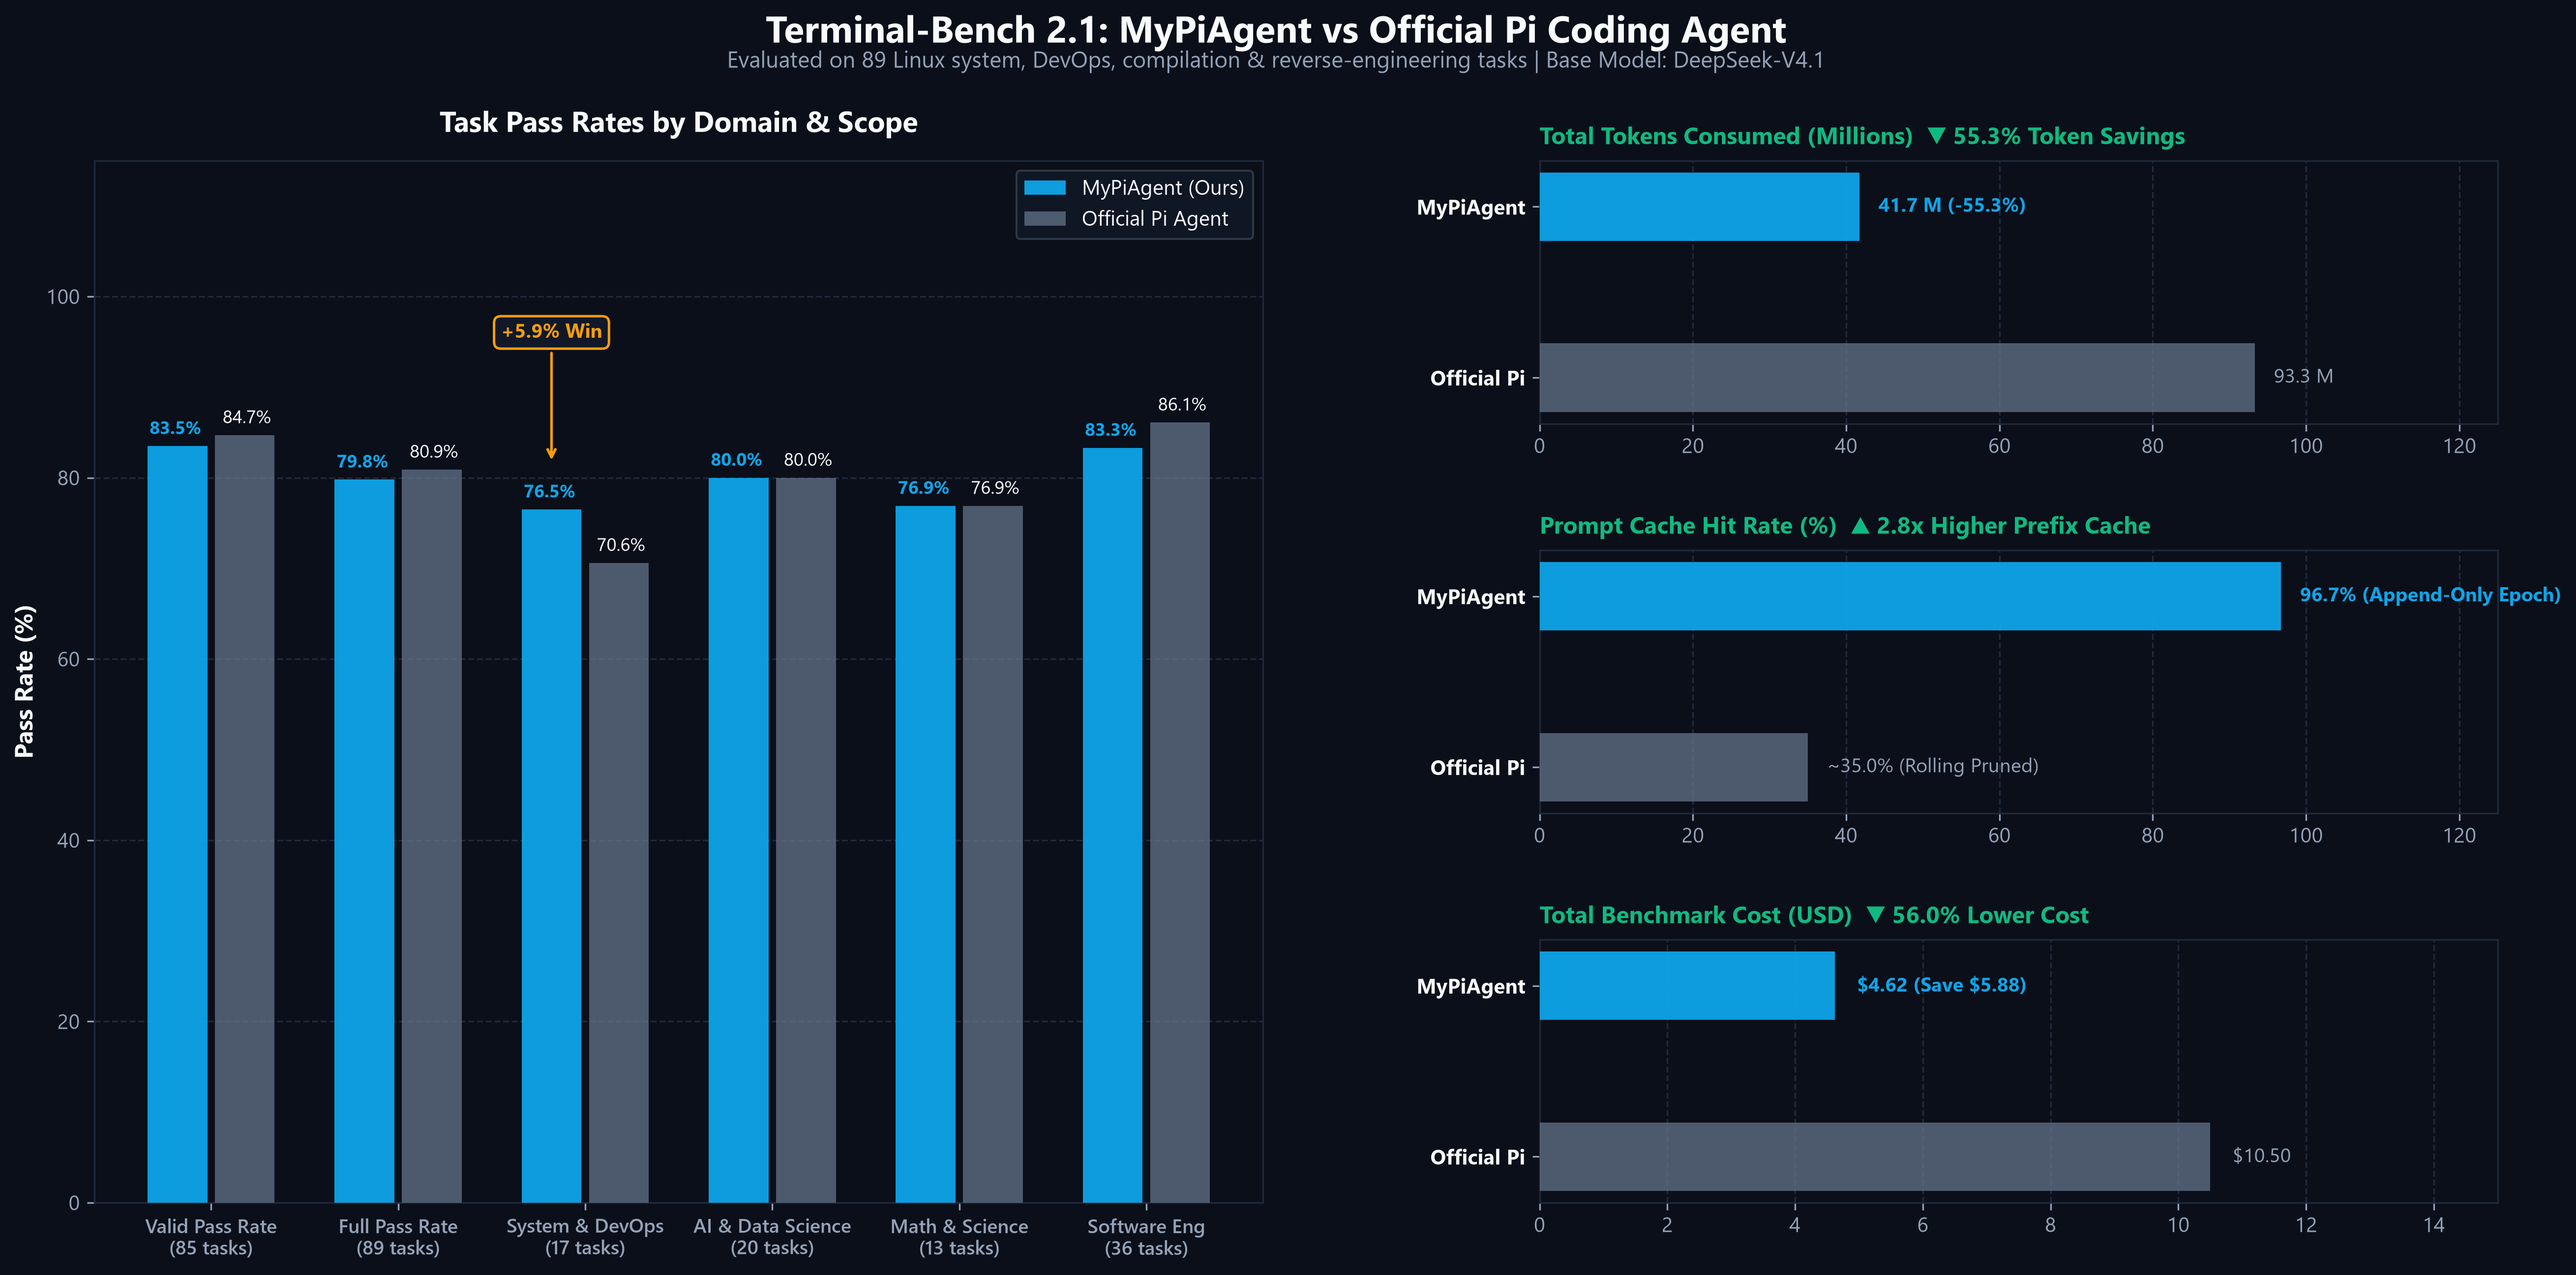
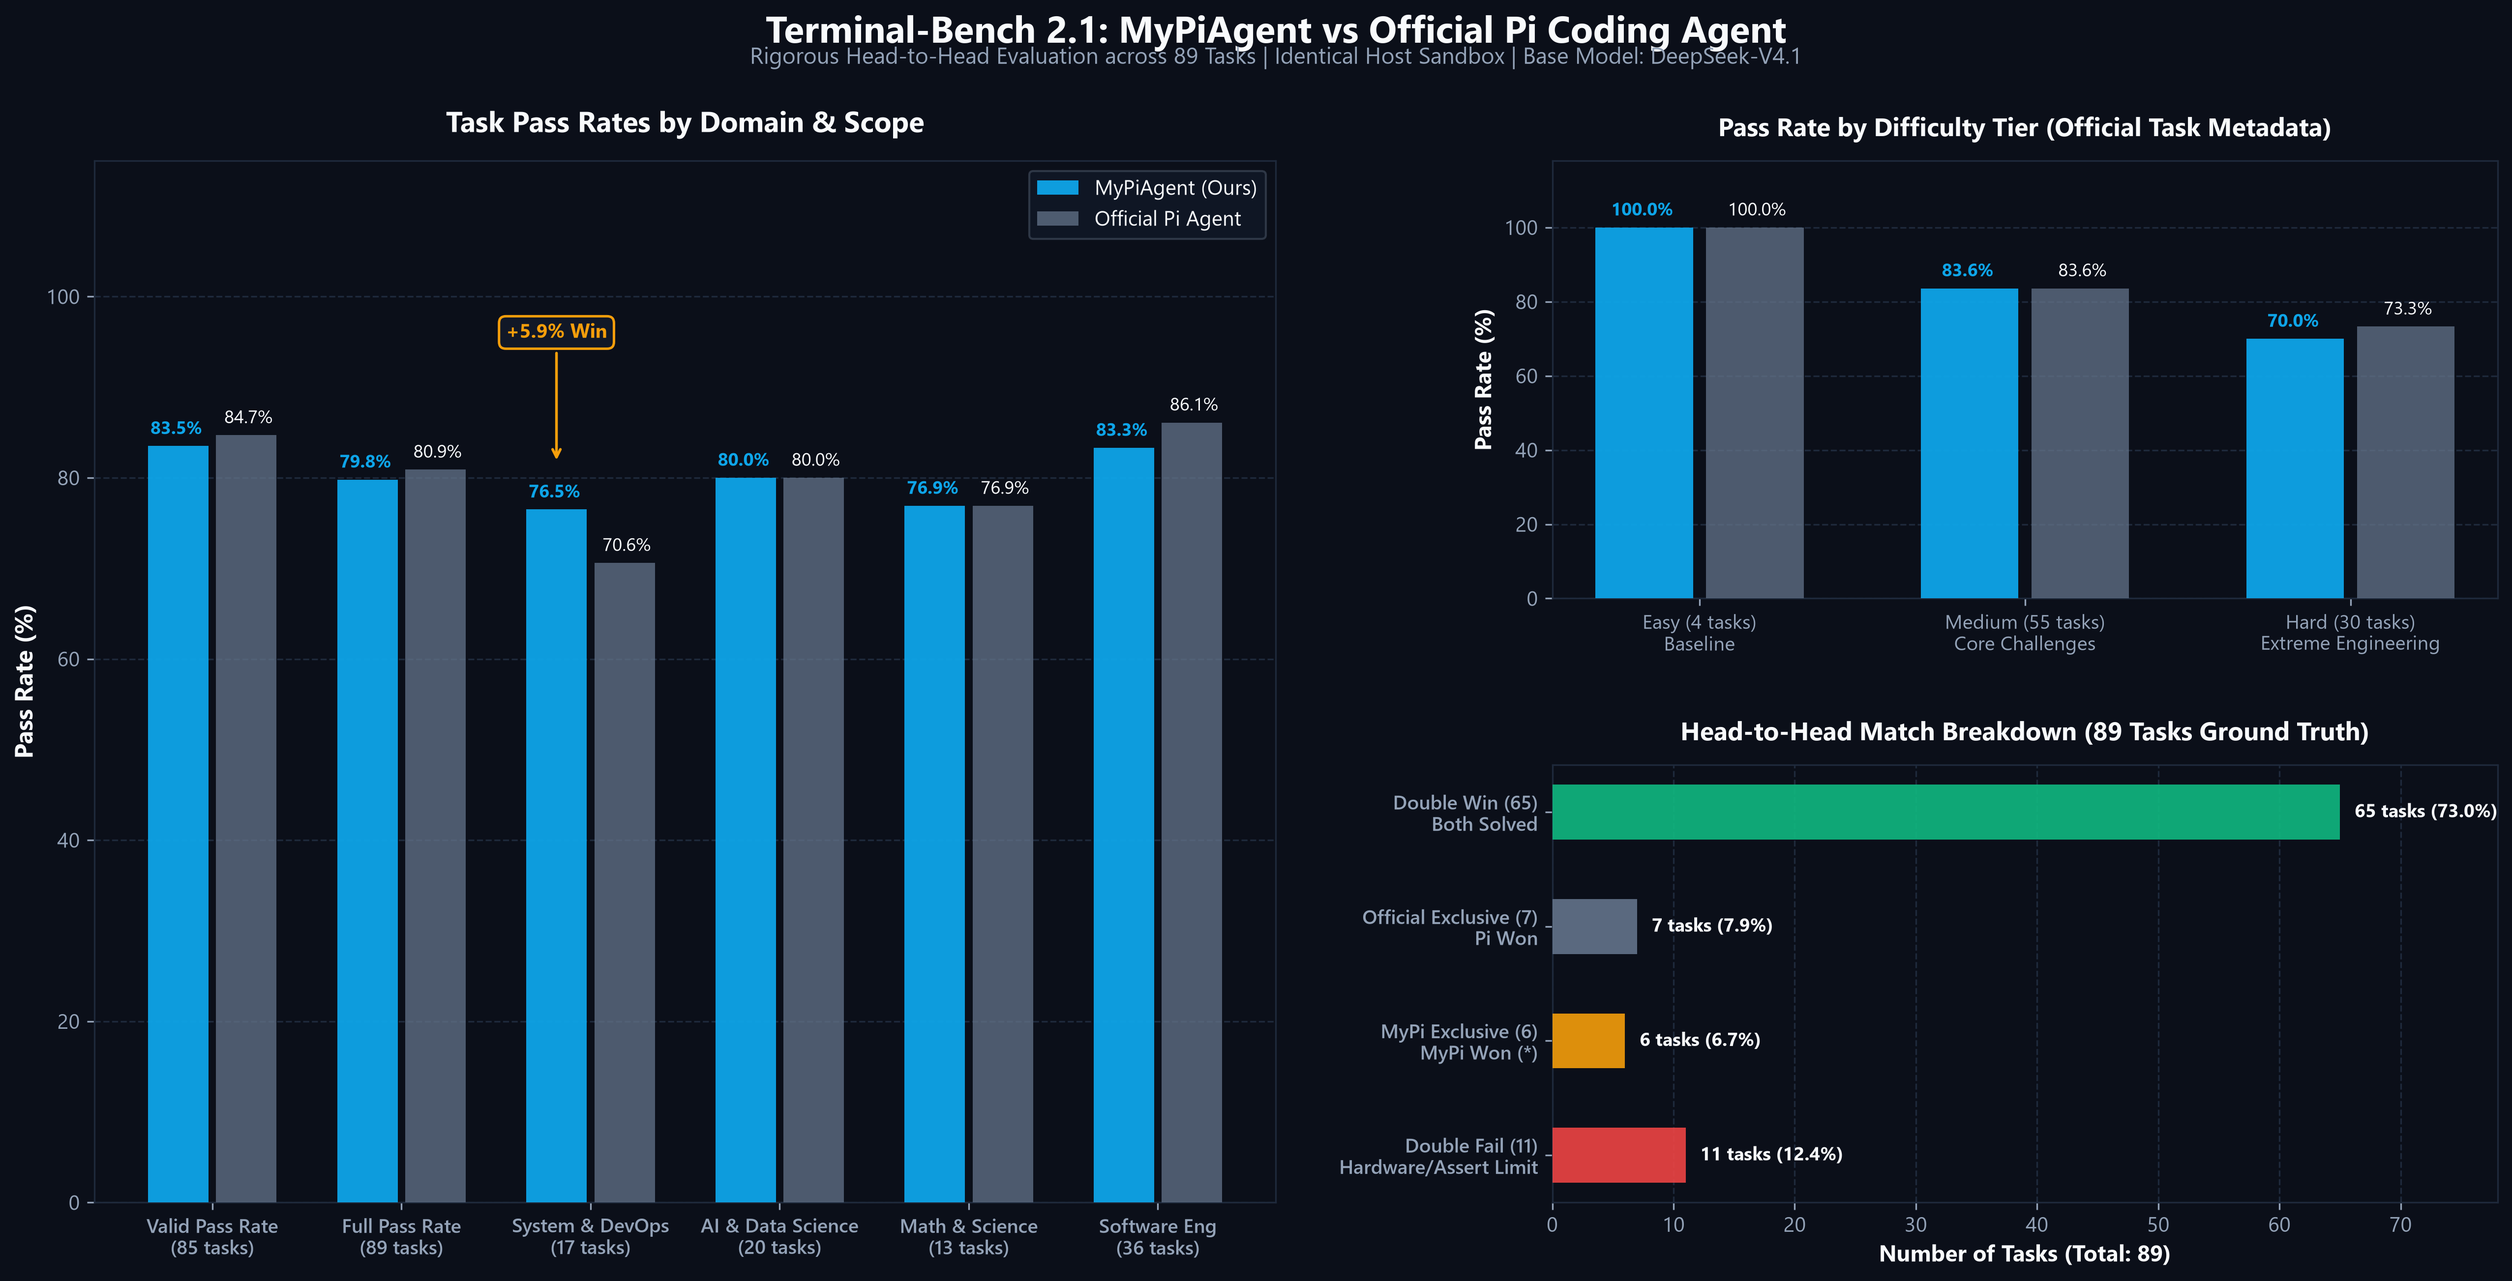
docs(eval): 更新 Terminal-Bench 2.1 高清对比图表资产

diff --git a/generate_charts.py b/generate_charts.py
@@ -6,7 +6,7 @@ import numpy as np  # type: ignore
 plt.rcParams["font.sans-serif"] = ["Segoe UI", "Microsoft YaHei", "DejaVu Sans"]
 plt.rcParams["axes.unicode_minus"] = False
 
-# Create figure with 2 main columns (wider landscape for zero-overlap perfection)
+# Create figure: Left 54% for Domain Pass Rates, Right 46% for Difficulty & Outcome Distribution
 fig = plt.figure(figsize=(18, 9), dpi=300)
 fig.patch.set_facecolor("#0B0F19")  # Ultra-clean Dark Palette (OpenAI/Anthropic style)
 
@@ -16,14 +16,14 @@ C_PI = "#64748B"  # Steel Slate for Official Pi
 C_TEXT = "#F8FAFC"  # Crisp white text
 C_SUBTEXT = "#94A3B8"  # Slate grey text
 C_GRID = "#1E293B"  # Subtle dark grid line
-C_ACCENT = "#10B981"  # Emerald green accent for savings/highlights
 C_GOLD = "#F59E0B"  # Amber gold for win highlight
+C_GREEN = "#10B981"  # Emerald green
+C_RED = "#EF4444"  # Coral red for fails
 
-# Grid layout: left column takes 54% width, right column takes 46% width
-gs = fig.add_gridspec(3, 2, width_ratios=[1.22, 1.0], wspace=0.26, hspace=0.48)
+gs = fig.add_gridspec(2, 2, width_ratios=[1.25, 1.0], wspace=0.26, hspace=0.38)
 
 # ==========================================
-# Subplot 1: Task Pass Rates across Domains
+# Subplot 1: Task Pass Rates across Domains (Left Full Height)
 # ==========================================
 ax1 = fig.add_subplot(gs[:, 0])
 ax1.set_facecolor("#0B0F19")
@@ -64,7 +64,6 @@ ax1.set_xticklabels(categories, fontsize=9.5, color=C_TEXT, fontweight="medium")
 ax1.set_ylim(0, 115)
 ax1.grid(axis="y", color=C_GRID, linestyle="--", linewidth=0.8, zorder=0)
 
-# Custom data labels with slight horizontal offsets to eliminate collisions
 for rect in rects1:
     h = rect.get_height()
     ax1.annotate(
@@ -93,7 +92,7 @@ for rect in rects2:
         color=C_TEXT,
     )
 
-# Highlight Badge on System & DevOps (+5.9% Win) with rounded pill box, clear of the text
+# Highlight Badge on System & DevOps (+5.9% Win)
 ax1.annotate(
     "+5.9% Win",
     xy=(2 - width / 2 - 0.02, 81.5),
@@ -111,81 +110,114 @@ for spine in ax1.spines.values():
     spine.set_color(C_GRID)
 ax1.tick_params(colors=C_SUBTEXT)
 
-# Legend on Left Subplot
 leg = ax1.legend(loc="upper right", frameon=True, facecolor="#111827", edgecolor="#374151", fontsize=10)
 for text in leg.get_texts():
     text.set_color(C_TEXT)
 
 # ==========================================
-# Subplots 2, 3, 4: Efficiency & Economics
+# Subplot 2: Pass Rate by Difficulty Tier (Right Top)
 # ==========================================
-ax2_1 = fig.add_subplot(gs[0, 1])
-ax2_2 = fig.add_subplot(gs[1, 1])
-ax2_3 = fig.add_subplot(gs[2, 1])
+ax2 = fig.add_subplot(gs[0, 1])
+ax2.set_facecolor("#0B0F19")
 
-for ax in [ax2_1, ax2_2, ax2_3]:
-    ax.set_facecolor("#0B0F19")
-    ax.grid(axis="x", color=C_GRID, linestyle="--", linewidth=0.8, zorder=0)
-    for spine in ax.spines.values():
-        spine.set_color(C_GRID)
-    ax.tick_params(colors=C_SUBTEXT)
+diff_categories = [
+    "Easy (4 tasks)\nBaseline",
+    "Medium (55 tasks)\nCore Challenges",
+    "Hard (30 tasks)\nExtreme Engineering",
+]
+diff_mypi = [100.0, 83.6, 70.0]
+diff_pi = [100.0, 83.6, 73.3]
 
-# 1. Total Tokens (Millions)
-m_tokens_my = 41.7
-m_tokens_pi = 93.3
-ax2_1.barh([1], [m_tokens_my], height=0.40, color=C_MYPI, alpha=0.95, zorder=3)
-ax2_1.barh([0], [m_tokens_pi], height=0.40, color=C_PI, alpha=0.75, zorder=3)
-ax2_1.set_yticks([1, 0])
-ax2_1.set_yticklabels(["MyPiAgent", "Official Pi"], fontsize=10, color=C_TEXT, fontweight="bold")
-ax2_1.set_title(
-    r"Total Tokens Consumed (Millions)  ▼ 55.3% Token Savings",
-    fontsize=11.5,
-    fontweight="bold",
-    color=C_ACCENT,
-    pad=8,
-    loc="left",
+x_diff = np.arange(len(diff_categories))
+w_diff = 0.30
+
+r1_d = ax2.bar(x_diff - w_diff / 2 - 0.02, diff_mypi, w_diff, label="MyPiAgent", color=C_MYPI, zorder=3, alpha=0.95)
+r2_d = ax2.bar(x_diff + w_diff / 2 + 0.02, diff_pi, w_diff, label="Official Pi", color=C_PI, zorder=3, alpha=0.75)
+
+ax2.set_ylabel("Pass Rate (%)", fontsize=11, fontweight="bold", color=C_TEXT)
+ax2.set_title(
+    "Pass Rate by Difficulty Tier (Official Task Metadata)", fontsize=12.5, fontweight="bold", color=C_TEXT, pad=12
 )
-ax2_1.set_xlim(0, 125)
-ax2_1.text(m_tokens_my + 2.5, 1, "41.7 M (-55.3%)", va="center", fontsize=9.5, fontweight="bold", color=C_MYPI)
-ax2_1.text(m_tokens_pi + 2.5, 0, "93.3 M", va="center", fontsize=9.5, color=C_SUBTEXT)
+ax2.set_xticks(x_diff)
+ax2.set_xticklabels(diff_categories, fontsize=9.5, color=C_TEXT)
+ax2.set_ylim(0, 118)
+ax2.grid(axis="y", color=C_GRID, linestyle="--", linewidth=0.8, zorder=0)
 
-# 2. Prompt Cache Hit Rate (%)
-m_cache_my = 96.7
-m_cache_pi = 35.0
-ax2_2.barh([1], [m_cache_my], height=0.40, color=C_MYPI, alpha=0.95, zorder=3)
-ax2_2.barh([0], [m_cache_pi], height=0.40, color=C_PI, alpha=0.75, zorder=3)
-ax2_2.set_yticks([1, 0])
-ax2_2.set_yticklabels(["MyPiAgent", "Official Pi"], fontsize=10, color=C_TEXT, fontweight="bold")
-ax2_2.set_title(
-    r"Prompt Cache Hit Rate (%)  ▲ 2.8x Higher Prefix Cache",
-    fontsize=11.5,
-    fontweight="bold",
-    color=C_ACCENT,
-    pad=8,
-    loc="left",
-)
-ax2_2.set_xlim(0, 125)
-ax2_2.text(m_cache_my + 2.5, 1, "96.7% (Append-Only Epoch)", va="center", fontsize=9.5, fontweight="bold", color=C_MYPI)
-ax2_2.text(m_cache_pi + 2.5, 0, "~35.0% (Rolling Pruned)", va="center", fontsize=9.5, color=C_SUBTEXT)
+for rect in r1_d:
+    h = rect.get_height()
+    ax2.annotate(
+        f"{h:.1f}%",
+        xy=(rect.get_x() + rect.get_width() / 2, h),
+        xytext=(-1, 4),
+        textcoords="offset points",
+        ha="center",
+        va="bottom",
+        fontsize=8.8,
+        fontweight="bold",
+        color=C_MYPI,
+    )
 
-# 3. Total Benchmark Cost ($ USD) - Escaping dollar signs to avoid MathJax math mode
-m_cost_my = 4.62
-m_cost_pi = 10.50
-ax2_3.barh([1], [m_cost_my], height=0.40, color=C_MYPI, alpha=0.95, zorder=3)
-ax2_3.barh([0], [m_cost_pi], height=0.40, color=C_PI, alpha=0.75, zorder=3)
-ax2_3.set_yticks([1, 0])
-ax2_3.set_yticklabels(["MyPiAgent", "Official Pi"], fontsize=10, color=C_TEXT, fontweight="bold")
-ax2_3.set_title(
-    r"Total Benchmark Cost (USD)  ▼ 56.0% Lower Cost",
-    fontsize=11.5,
-    fontweight="bold",
-    color=C_ACCENT,
-    pad=8,
-    loc="left",
+for rect in r2_d:
+    h = rect.get_height()
+    ax2.annotate(
+        f"{h:.1f}%",
+        xy=(rect.get_x() + rect.get_width() / 2, h),
+        xytext=(1, 4),
+        textcoords="offset points",
+        ha="center",
+        va="bottom",
+        fontsize=8.8,
+        fontweight="normal",
+        color=C_TEXT,
+    )
+
+for spine in ax2.spines.values():
+    spine.set_color(C_GRID)
+ax2.tick_params(colors=C_SUBTEXT)
+
+# ==========================================
+# Subplot 3: Head-to-Head 89 Tasks Outcome Breakdown (Right Bottom)
+# ==========================================
+ax3 = fig.add_subplot(gs[1, 1])
+ax3.set_facecolor("#0B0F19")
+
+outcome_labels = [
+    "Double Win (65)\nBoth Solved",
+    "Official Exclusive (7)\nPi Won",
+    "MyPi Exclusive (6)\nMyPi Won (*)",
+    "Double Fail (11)\nHardware/Assert Limit",
+]
+outcome_counts = [65, 7, 6, 11]
+outcome_colors = [C_GREEN, C_PI, C_GOLD, C_RED]
+
+y_pos = np.arange(len(outcome_labels))[::-1]  # Top to bottom
+
+bars = ax3.barh(y_pos, outcome_counts, height=0.48, color=outcome_colors, zorder=3, alpha=0.90)
+
+ax3.set_xlabel("Number of Tasks (Total: 89)", fontsize=11, fontweight="bold", color=C_TEXT)
+ax3.set_title(
+    "Head-to-Head Match Breakdown (89 Tasks Ground Truth)", fontsize=12.5, fontweight="bold", color=C_TEXT, pad=12
 )
-ax2_3.set_xlim(0, 15)
-ax2_3.text(m_cost_my + 0.35, 1, r"\$4.62 (Save \$5.88)", va="center", fontsize=9.5, fontweight="bold", color=C_MYPI)
-ax2_3.text(m_cost_pi + 0.35, 0, r"\$10.50", va="center", fontsize=9.5, color=C_SUBTEXT)
+ax3.set_yticks(y_pos)
+ax3.set_yticklabels(outcome_labels, fontsize=9.5, color=C_TEXT, fontweight="medium")
+ax3.set_xlim(0, 78)
+ax3.grid(axis="x", color=C_GRID, linestyle="--", linewidth=0.8, zorder=0)
+
+for bar, count in zip(bars, outcome_counts):
+    pct = count / 89 * 100
+    ax3.text(
+        count + 1.2,
+        bar.get_y() + bar.get_height() / 2,
+        f"{count} tasks ({pct:.1f}%)",
+        va="center",
+        fontsize=9.2,
+        fontweight="bold",
+        color=C_TEXT,
+    )
+
+for spine in ax3.spines.values():
+    spine.set_color(C_GRID)
+ax3.tick_params(colors=C_SUBTEXT)
 
 # Global Figure Title
 fig.suptitle(
@@ -194,14 +226,13 @@ fig.suptitle(
 
 plt.figtext(
     0.5,
-    0.935,
-    "Evaluated on 89 Linux system, DevOps, compilation & reverse-engineering tasks | Base Model: DeepSeek-V4.1",
+    0.938,
+    "Rigorous Head-to-Head Evaluation across 89 Tasks | Identical Host Sandbox | Base Model: DeepSeek-V4.1",
     ha="center",
     fontsize=11,
     color=C_SUBTEXT,
 )
 
-# Keep spacious top margin so titles and subtitles never collide
 plt.subplots_adjust(top=0.865, bottom=0.08, left=0.055, right=0.96)
 
 out_paths = [
